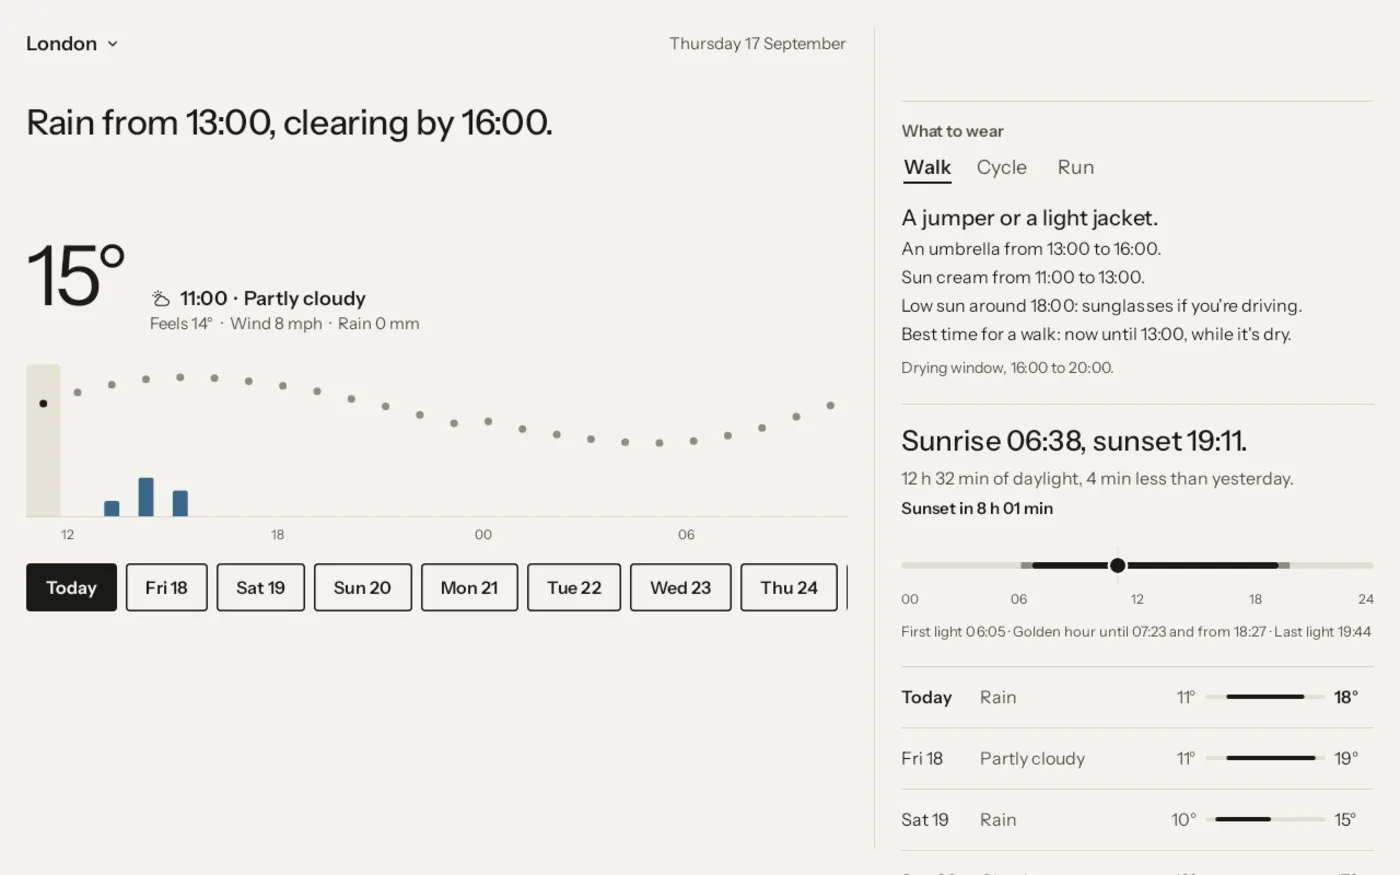
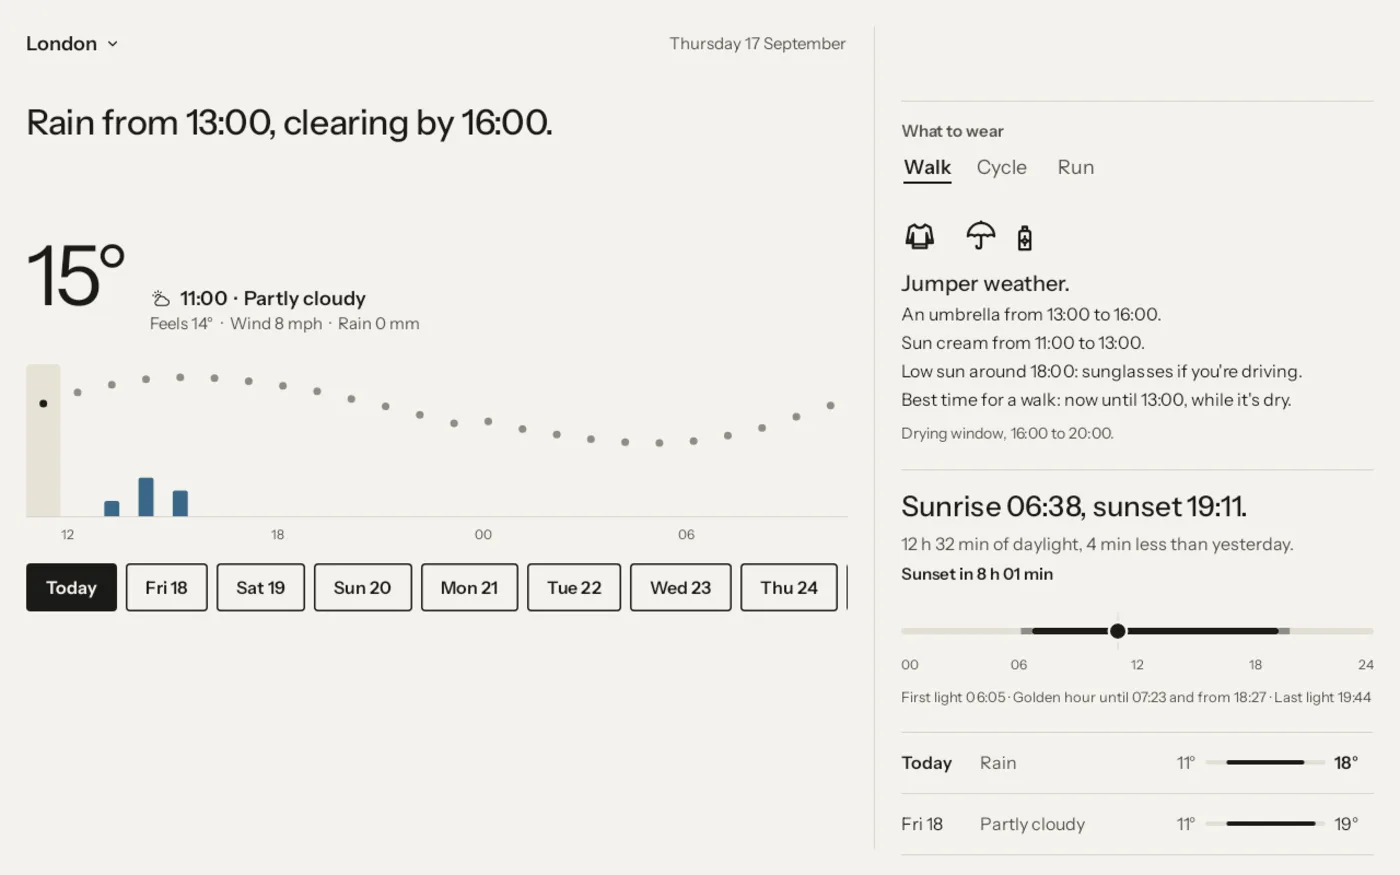
Always Weather platforms: each store's laptop with its phone, in drawn frames
Pavel picked option A of the device canvas on 12 Oct 2026. The platforms section now shows each
store's pair as one picture:
- App Store: the Mac in Sky after dark with an iPhone in Paper in front.
- Google Play: a Googlebook in Paper with an Android phone in Sky in front.

The frames are drawn, not device photos: flat bezels from new --bezel tokens, with light and dark
values. Every size is a percentage of the stage, so on a phone the pair scales as one picture under
its text. The screens are re-pulled from always_weather main, for 1.0.2:
- the iPhone scrolled to What to wear with its pictures;
- the Mac after dark.
The three hero shots follow the 1.0.2 store set: 02_sky-sentence became 02_sky-next-hour, and the
alt texts match the new shots. shot-sentence.webp is gone.

Checked locally at 1280 and 375 px, light and dark: nothing overflows sideways, and the images load
at their declared sizes.

diff --git a/weather/index.html b/weather/index.html
@@ -101,6 +101,8 @@
   --underline-accent:rgba(31,59,196,.28);
   --mode-active:rgba(23,22,19,.07);
   --shot-shadow:0 1px 2px rgba(23,22,19,.06),0 18px 40px -22px rgba(23,22,19,.42);
+  /* the drawn device frames in the platforms section */
+  --bezel:#1E1D1A;--bezel-edge:transparent;--bezel-base:#D3CEC4;--bezel-notch:#B8B2A6;--bezel-dot:#3A3833;--bezel-hole:#0B0A09;
   --grain:.05;
   --grain-blend:multiply;
 }
@@ -123,6 +125,7 @@
     --underline-accent:rgba(148,169,255,.32);
     --mode-active:rgba(239,236,228,.10);
     --shot-shadow:0 0 0 1px rgba(239,236,228,.08),0 20px 44px -24px rgba(0,0,0,.85);
+    --bezel:#0B0A09;--bezel-edge:rgba(239,236,228,.14);--bezel-base:#2A2825;--bezel-notch:#1D1B18;--bezel-dot:#2A2825;--bezel-hole:#000;
     --grain:.07;
     --grain-blend:screen;
   }
@@ -141,6 +144,7 @@
     --underline-accent:rgba(148,169,255,.32);
     --mode-active:rgba(239,236,228,.10);
     --shot-shadow:0 0 0 1px rgba(239,236,228,.08),0 20px 44px -24px rgba(0,0,0,.85);
+    --bezel:#0B0A09;--bezel-edge:rgba(239,236,228,.14);--bezel-base:#2A2825;--bezel-notch:#1D1B18;--bezel-dot:#2A2825;--bezel-hole:#000;
     --grain:.07;
     --grain-blend:screen;
 }
@@ -276,23 +280,40 @@ a.pill:focus-visible{outline:2px solid var(--accent);outline-offset:3px}
   border-radius:8px;box-shadow:var(--shot-shadow);
 }
 
-/* ---------- platforms: each store's laptop beside its phone ---------- */
+/* ---------- platforms: each store's laptop with its phone in front ---------- */
+/* Drawn frames, not the makers' device photos: flat bezels in the page's own tokens. Every size is a
+   percentage of the stage, so the pair scales as one picture down to a phone's width. */
 .platforms{margin-top:112px;display:flex;flex-direction:column;gap:20px}
 .platforms h2{margin:0;font-size:30px;font-weight:500;letter-spacing:-.015em;line-height:1.2;color:var(--ink)}
-.platform-row{
-  display:grid;grid-template-columns:minmax(0,3fr) minmax(0,1fr);
-  gap:28px;align-items:end;margin-top:36px;
-}
-.platform-store{grid-column:1/-1;display:flex;align-items:baseline;gap:14px;flex-wrap:wrap}
-.device{margin:0;display:flex;flex-direction:column;gap:12px}
-.device img{
-  display:block;width:100%;height:auto;
-  border-radius:10px;border:1px solid var(--rule);box-shadow:var(--shot-shadow);
-}
-.device-laptop img{aspect-ratio:var(--ratio)}
-.device-phone img{aspect-ratio:9/19.5;border-radius:18px}
-.device figcaption{font-size:13.5px;color:var(--ink-3);line-height:1.5}
-.device figcaption strong{color:var(--ink);font-weight:500}
+.platform-row{display:grid;grid-template-columns:minmax(0,5fr) minmax(0,11fr);gap:56px;align-items:center;margin-top:48px}
+.platform-row.mirror{grid-template-columns:minmax(0,11fr) minmax(0,5fr)}
+.platform-row.mirror .platform-text{order:2}
+.platform-text{display:flex;flex-direction:column;align-items:flex-start;gap:12px}
+.platform-text .platform-store{margin:0;font-size:13px;letter-spacing:.04em;text-transform:uppercase;color:var(--ink-3)}
+.platform-text h3{margin:0;font-size:24px;font-weight:500;letter-spacing:-.01em;line-height:1.25;color:var(--ink)}
+.platform-text p{margin:0;font-size:16px;line-height:1.55;color:var(--ink-2)}
+.platform-text .pill{margin-top:8px}
+.stage{position:relative;aspect-ratio:836/480}
+.stage img{display:block;width:100%;height:100%;object-fit:cover;object-position:top center}
+.laptop{position:absolute;left:0;top:3.75%;width:76.6%}
+.mirror .laptop{left:auto;right:3.6%}
+.lid{position:relative;box-sizing:border-box;padding:1.9% 1.9% 2.2%;border-radius:20px 20px 8px 8px;
+  background:var(--bezel);border:1px solid var(--bezel-edge);box-shadow:var(--shot-shadow)}
+.lid::before{content:"";position:absolute;top:.9%;left:50%;width:.8%;aspect-ratio:1;transform:translateX(-50%);
+  border-radius:50%;background:var(--bezel-dot)}
+.laptop .screen{aspect-ratio:16/10;border-radius:6px;overflow:hidden;background:#000}
+.base{position:relative;width:109.4%;margin-left:-4.7%;aspect-ratio:700/16;border-radius:0 0 14px 14px;
+  background:var(--bezel-base);box-shadow:var(--shot-shadow)}
+.base::before{content:"";position:absolute;top:0;left:50%;width:17%;height:38%;transform:translateX(-50%);
+  border-radius:0 0 8px 8px;background:var(--bezel-notch)}
+.phone{position:absolute;right:2.4%;bottom:0;width:23.4%;z-index:1}
+.mirror .phone{right:auto;left:2.4%}
+.phone .body{position:relative;box-sizing:border-box;padding:3.6%;border-radius:17%/8.2%;
+  background:var(--bezel);border:1px solid var(--bezel-edge);box-shadow:var(--shot-shadow)}
+.phone .screen{aspect-ratio:9/19.5;border-radius:15%/7%;overflow:hidden;background:#000}
+.phone .body::before{content:"";position:absolute;top:3.9%;left:50%;transform:translateX(-50%);z-index:1;background:var(--bezel-hole)}
+.phone-iphone .body::before{width:27.5%;height:3.9%;border-radius:999px}
+.phone-android .body::before{width:5.1%;aspect-ratio:1;border-radius:50%}
 
 /* ---------- numbers ---------- */
 .numbers{
@@ -385,8 +406,8 @@ a.pill:focus-visible{outline:2px solid var(--accent);outline-offset:3px}
 
 /* ---------- responsive ---------- */
 @media (max-width:860px){
-  .platform-row{grid-template-columns:minmax(0,1fr);gap:24px}
-  .device-phone{max-width:240px}
+  .platform-row,.platform-row.mirror{grid-template-columns:minmax(0,1fr);gap:28px}
+  .platform-row.mirror .platform-text{order:0}
   .wrap{padding-left:24px;padding-right:24px}
   .masthead{padding-bottom:64px}
   /* one thumb again: the shots become a snapping strip that bleeds to both edges,
@@ -466,15 +487,15 @@ a.pill:focus-visible{outline:2px solid var(--accent);outline-offset:3px}
     <section class="shots" aria-label="Screenshots">
       <figure class="shot">
         <img src="/assets/weather/shot-hours.webp" width="600" height="1067" loading="lazy" decoding="async"
-             alt="London at 14:00: 16 degrees and rain, above a strip of hourly bars with the 14:00 bar selected, then a “Sunrise and sunset” heading.">
+             alt="Drag through the hours: London at 14:00, 16 degrees and rain, “Rain from 13:00, clearing by 16:00.”, the hourly bars with rain under them, and What to wear below.">
       </figure>
       <figure class="shot">
-        <img src="/assets/weather/shot-sentence.webp" width="600" height="1067" loading="lazy" decoding="async"
-             alt="London on Saturday at 11:00: cloudy, 14 degrees. The summary reads “Rain from 16:00, clearing by 21:00.” Below it sit the hourly bars and a “Sunrise and sunset” heading.">
+        <img src="/assets/weather/shot-next-hour.webp" width="600" height="1067" loading="lazy" decoding="async"
+             alt="Rain in the next few hours: London at 12:00, cloudy and 17 degrees, “4° warmer than yesterday.” and, from the Met Office's radar-based forecast, “Rain likely between 13:00 and 15:00.”">
       </figure>
       <figure class="shot">
         <img src="/assets/weather/shot-night.webp" width="600" height="1067" loading="lazy" decoding="async"
-             alt="Brighton at 22:00: clear night, 14 degrees, on a dark night-blue screen. The summary reads “Dry tonight.” Below it sit the hourly bars and a “Sunrise and sunset” heading.">
+             alt="Calm after dark: Brighton at 22:00, a clear night at 14 degrees on a night-blue screen, “Dry tonight.”, the hourly bars, and What to wear tonight.">
       </figure>
     </section>
 
@@ -483,37 +504,51 @@ a.pill:focus-visible{outline:2px solid var(--accent);outline-offset:3px}
       <p class="body-copy">The same forecast, the same words and the same one-thumb sweep through the hours, wherever you open it. On a wide screen the hour you're looking at sits beside sunrise, what to wear and the days ahead.</p>
 
       <div class="platform-row">
-        <div class="platform-store">
+        <div class="platform-text">
+          <p class="platform-store">App Store</p>
+          <h3>Mac and iPhone</h3>
+          <p>One purchase covers both. Sky after dark on the Mac, Paper in your pocket: the same forecast, the same hours under your thumb.</p>
           <a class="pill" href="https://apps.apple.com/gb/app/always-weather/id6817032365">App Store</a>
-          <span class="availability-note">iPhone and Mac, one purchase</span>
         </div>
-        <figure class="device device-laptop" style="--ratio:4/3">
-          <img src="/assets/weather/platform-mac.webp" width="1400" height="1050" loading="lazy" decoding="async"
-               alt="The Mac app in Sky at night: London at 20:00, 16 degrees and clear, the hourly bars on the left, and What to wear, sunrise and sunset and the nine-day forecast on the right.">
-          <figcaption><strong>Mac</strong> · Sky, after dark</figcaption>
-        </figure>
-        <figure class="device device-phone">
-          <img src="/assets/weather/platform-iphone.webp" width="520" height="1127" loading="lazy" decoding="async"
-               alt="The iPhone app in Paper: London, &ldquo;Rain from 13:00, clearing by 16:00&rdquo;, 16 degrees, a dotted temperature line over the day with rain bars at lunchtime.">
-          <figcaption><strong>iPhone</strong> · Paper</figcaption>
-        </figure>
+        <div class="stage">
+          <div class="laptop">
+            <div class="lid"><div class="screen">
+              <img src="/assets/weather/platform-mac.webp" width="1400" height="1050" loading="lazy" decoding="async"
+                   alt="Always Weather on a Mac in Sky after dark: London at 20:00, 16 degrees on a clear night, the hourly bars on the left, and What to wear with its pictures on the right.">
+            </div></div>
+            <div class="base" aria-hidden="true"></div>
+          </div>
+          <div class="phone phone-iphone">
+            <div class="body"><div class="screen">
+              <img src="/assets/weather/platform-iphone.webp" width="520" height="1131" loading="lazy" decoding="async"
+                   alt="Always Weather on an iPhone in Paper: the row of days, then What to wear for a walk with pictures of a T-shirt, a light layer and sun cream, and sunrise and sunset.">
+            </div></div>
+          </div>
+        </div>
       </div>
 
-      <div class="platform-row">
-        <div class="platform-store">
+      <div class="platform-row mirror">
+        <div class="platform-text">
+          <p class="platform-store">Google Play</p>
+          <h3>Android phone and Googlebook</h3>
+          <p>On a Googlebook the hours sit on the left and the days on the right. On the phone, one thumb drags you through the day.</p>
           <a class="pill" href="https://play.google.com/store/apps/details?id=com.empatiq.weather">Google Play</a>
-          <span class="availability-note">Android phones and Googlebooks</span>
         </div>
-        <figure class="device device-laptop" style="--ratio:16/10">
-          <img src="/assets/weather/platform-googlebook.webp" width="1400" height="875" loading="lazy" decoding="async"
-               alt="The app on a Googlebook in Paper: the day's sentence, the hours and the days on the left, and What to wear and sunrise and sunset on the right.">
-          <figcaption><strong>Googlebook</strong> · Paper</figcaption>
-        </figure>
-        <figure class="device device-phone">
-          <img src="/assets/weather/platform-android.webp" width="520" height="1125" loading="lazy" decoding="async"
-               alt="The Android app in Sky: London at 14:00, 16 degrees and rain, on a grey-blue screen with clouds, above the hourly bars.">
-          <figcaption><strong>Android phone</strong> · Sky</figcaption>
-        </figure>
+        <div class="stage">
+          <div class="laptop">
+            <div class="lid"><div class="screen">
+              <img src="/assets/weather/platform-googlebook.webp" width="1400" height="875" loading="lazy" decoding="async"
+                   alt="Always Weather on a Googlebook in Paper: the day's sentence and the hours on the left, and What to wear with its pictures, sunrise and sunset and the days ahead on the right.">
+            </div></div>
+            <div class="base" aria-hidden="true"></div>
+          </div>
+          <div class="phone phone-android">
+            <div class="body"><div class="screen">
+              <img src="/assets/weather/platform-android.webp" width="520" height="1125" loading="lazy" decoding="async"
+                   alt="Always Weather on an Android phone in Sky: London at 14:00, 16 degrees and rain, with the hourly bars and the rain under them.">
+            </div></div>
+          </div>
+        </div>
       </div>
     </section>
 
